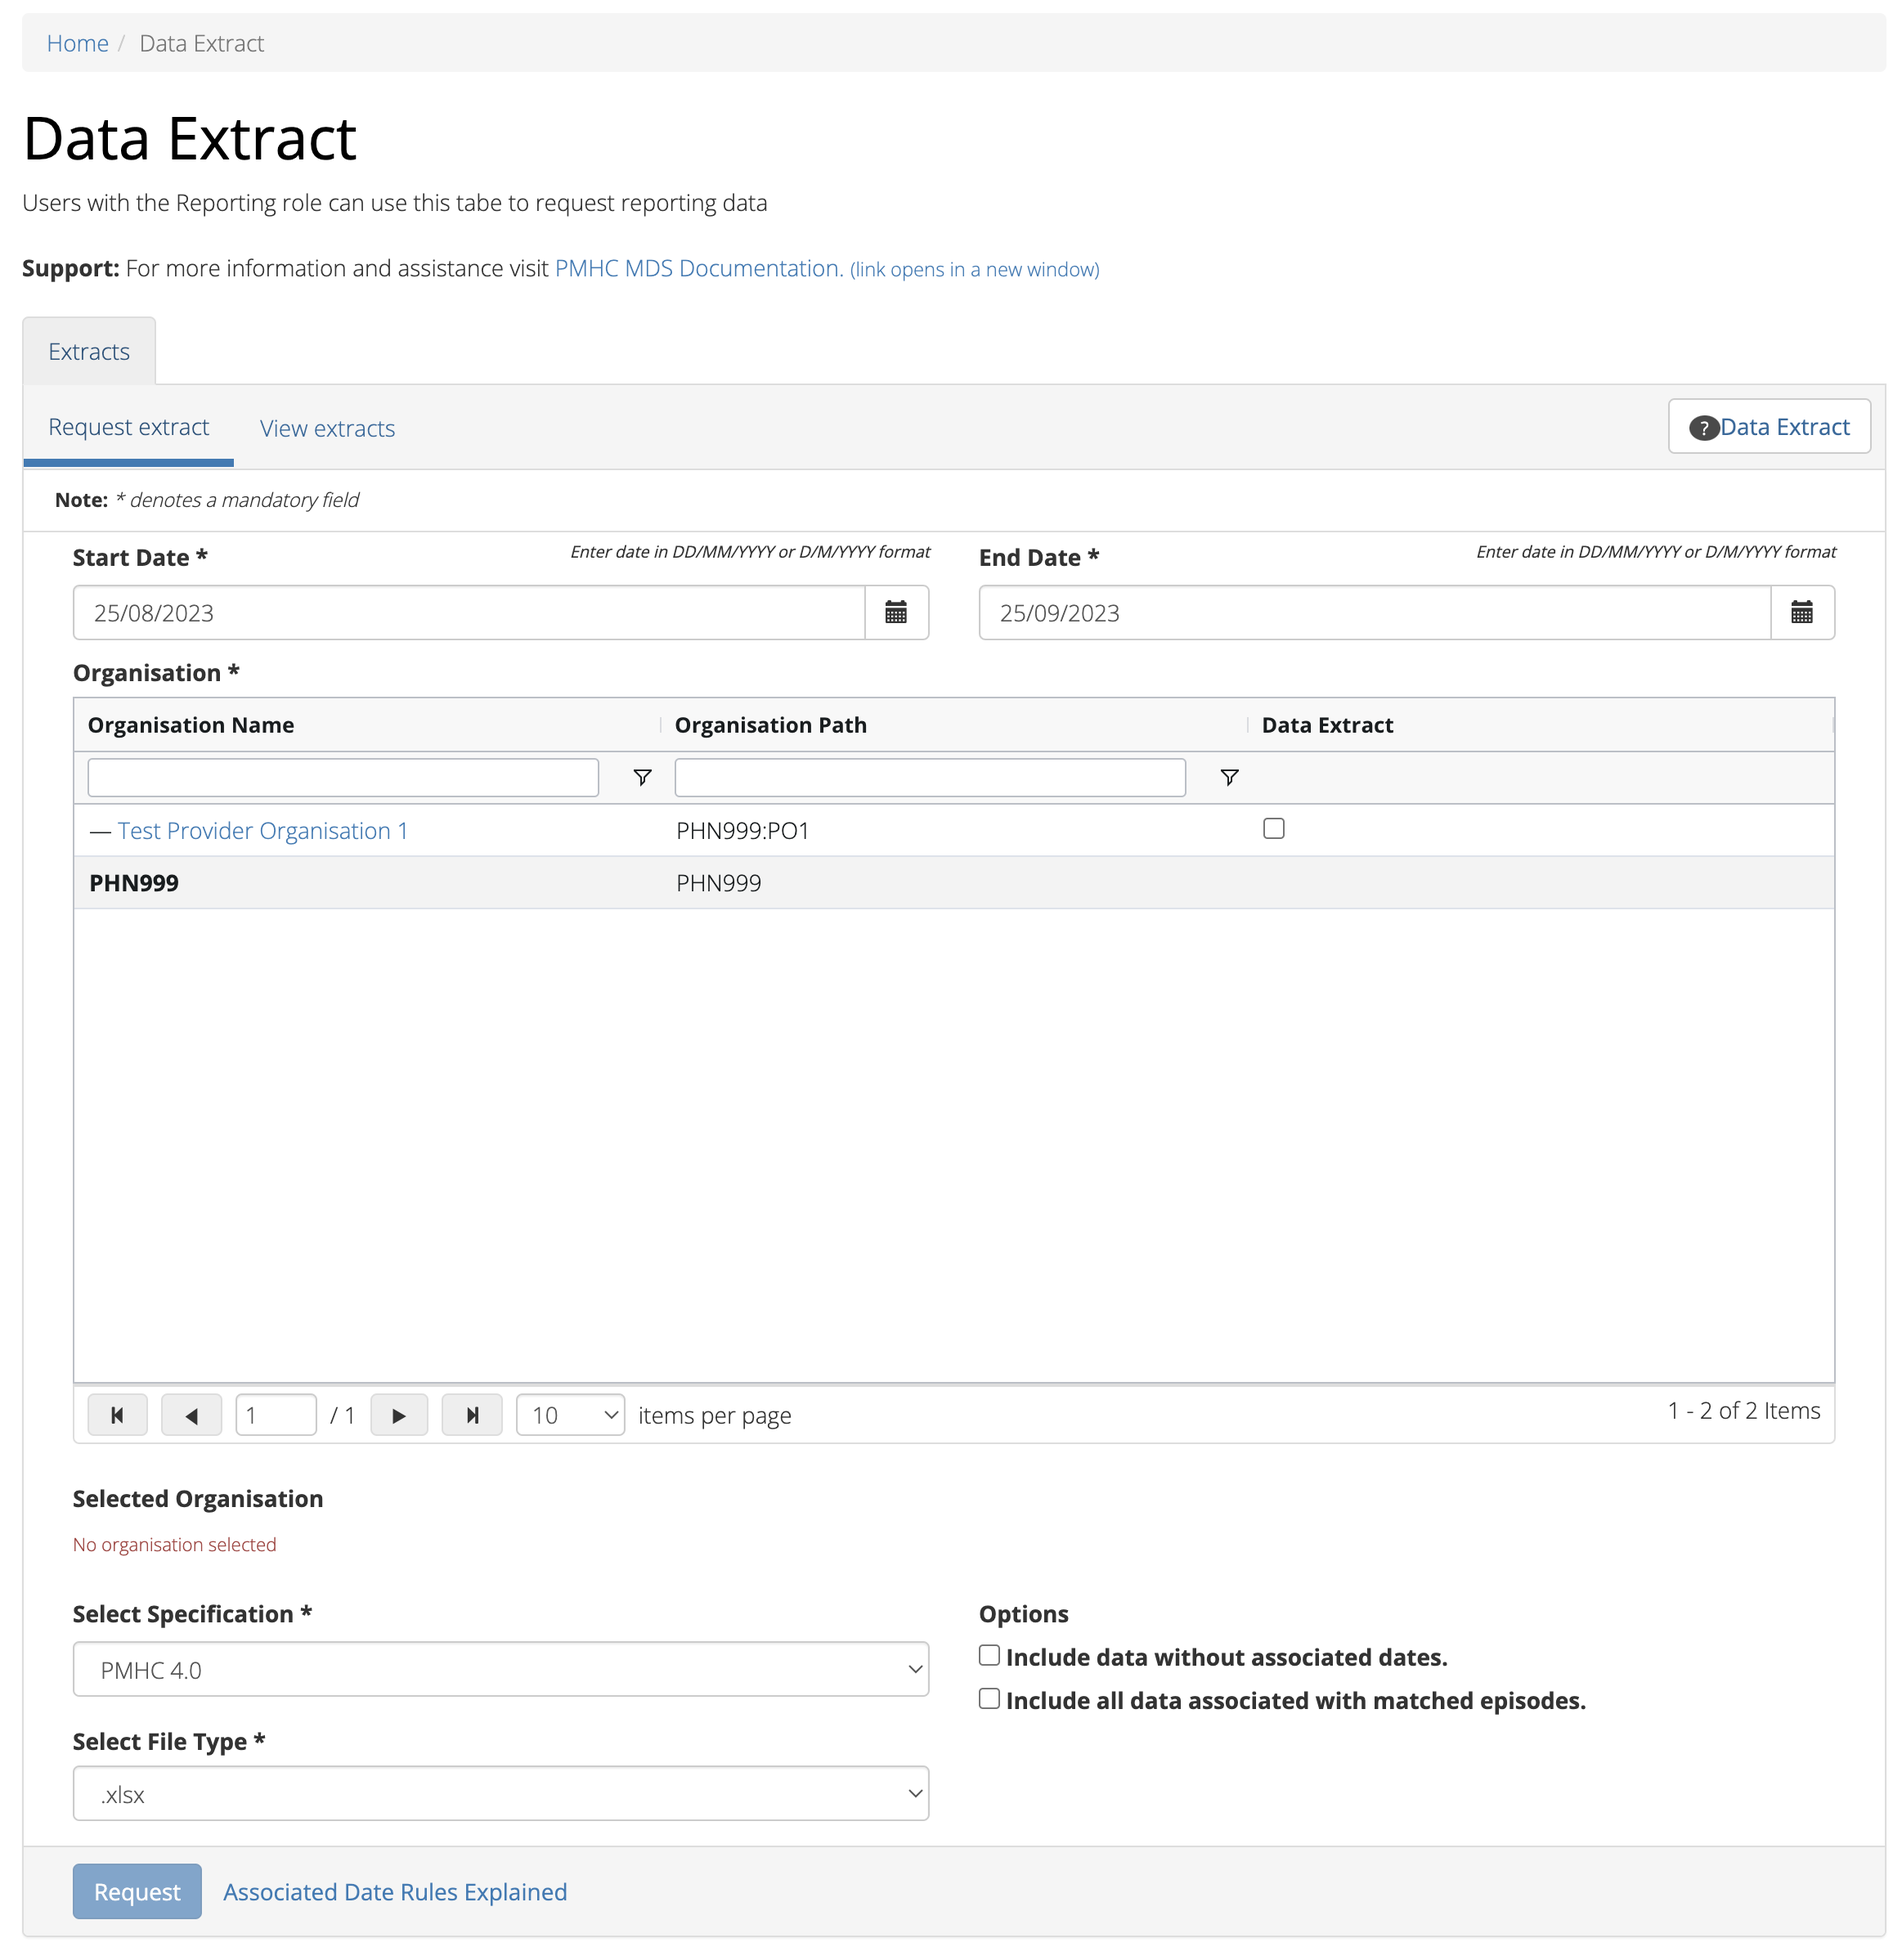
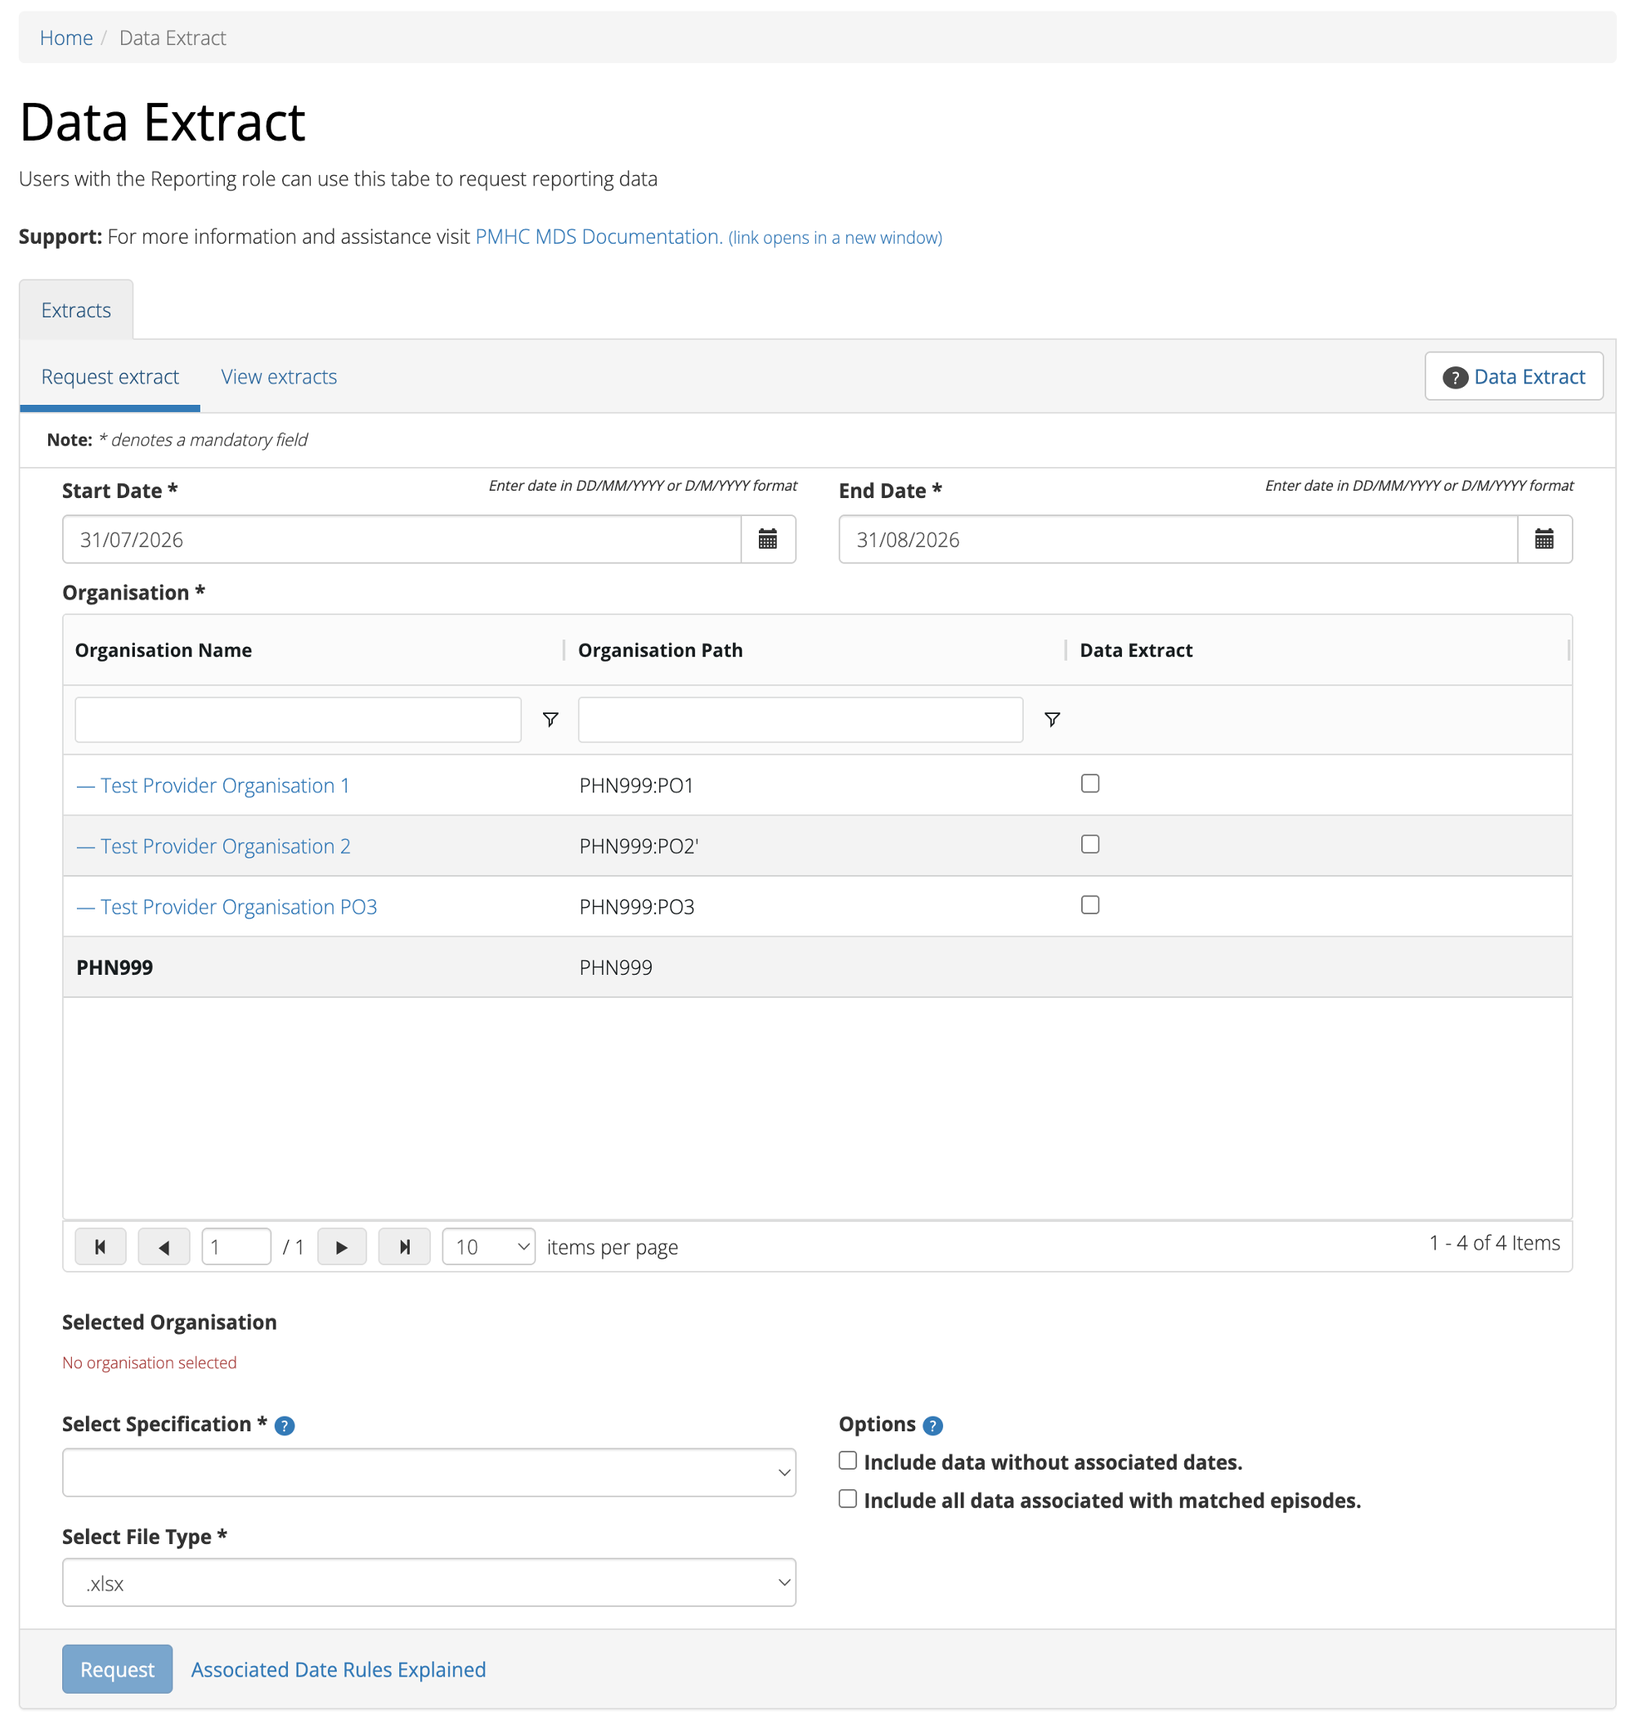
Update Data Extract
Make information current and not version specific
Update screenshots

diff --git a/docs/data-extract.rst b/docs/data-extract.rst
@@ -89,18 +89,26 @@ Requested extracts will be available under the **View Extracts** tab for 7 days.
 Dates explained for Data Extract
 ^^^^^^^^^^^^^^^^^^^^^^^^^^^^^^^^
 
-The Data Extract dates are based on the Client's Service Contact dates for the PMHC MDS.
+The Data Extract dates are based on the dates of the client’s data in the PMHC MDS.
+Dates are included in the Service Contact, Collection Occasion and Intake records.
 
-The default data extract file will include all service contacts that have been recorded
-within the date range of the request, the associated client and episode and measures records.
+The default data extract file will include all service contacts, collection occasions
+and intakes that have been recorded within the date range of the request, and the
+associated client, episode, measure and universal aftercare data records.
 
 It will not include any records that are outside the date range of the request.
+
 
 .. _data-extract-specification:
 
 Data Extract Specification
 ^^^^^^^^^^^^^^^^^^^^^^^^^^
 
+An extract in the core data specification or one of the current extension data
+specifications should meet most needs to review current data or re-upload modified
+data. The ‘Include data from all specifications’ (or META format) option should
+only be used when there is a specific requirement for all specifications, both
+core and extension data (current and historic).
 
 .. contents::
    :local:
@@ -111,41 +119,54 @@ Data Extract Specification
 PMHC (core)
 -----------
 
-If you would like to download a file that includes core data from the
-Primary Mental Health Care Minimum Data Set (PMHC MDS), select the dropdown option
-labelled **PMHC** in the current version specification.
+To download the core PMHC MDS data, select the "PMHC" option from the dropdown
+menu in the current version specification. This downloads a file in the current
+core PMHC MDS data specification. Information about the current core PMHC MDS
+data specification can be found at `PMHC-MDS Data Specification <https://docs.pmhc-mds.com/projects/data-specification/en/latest/index.html#>`_.
 
-This downloads a file that is the core PMHC MDS data, which includes transitioned data from past extensions like `Wayback`
-(See `PMHC-MDS Data Specification <https://docs.pmhc-mds.com/projects/data-specification/en/latest/index.html#>`_).
+This file will include all data added into the PMHC MDS under any previous core
+specification or extension specification, except for headspace.
 
-The resulting file can be uploaded.
+Where the data was transitioned from an extension to the core (e.g. Wayback and HeadtoHelp),
+the core and extension records will be contained in the file.
+
+Where the data was added using any other extension (e.g. National Suicide Prevention Trial)
+the core records will be contained in the file, but not the extension records.
+
+**The resulting file can be uploaded by either PHNs or Provider Organisations.**
 
 .. _data-extract-specification-headspace:
 
 headspace (PMHC extension)
 --------------------------
 
-If you would like to download a file that includes data from headspace extension,
-select the dropdown option labelled **headspace**in the current version specification.
-This downloads a file that is the data that has been updated from headspace
-headoffice hAPI system.
+To download only headspace data, select the "**headspace**" option from the
+dropdown menu in the current version specification. This downloads a file that
+contains only the data that has been uploaded from headspace’s hAPI system.
 (See `headspace Specification <https://docs.pmhc-mds.com/projects/data-specification-headspace/en/latest/index.html>`_).
 
-The resulting file cannot be uploaded. This is a download only format.
+**The resulting file can be uploaded by headspace Head Office.**
+
+**This is a download only format for all PHNs and Provider Organisations.**
+
 
 .. _data-extract-specification-survey:
 
 SURVEY (YES-PHN Results)
 ------------------------
 
-If you would like to download a file that includes data from the YES PHN Survey
-results, select the dropdown option labelled **SURVEY**in the current version specification. This downloads a
-file that is a combination of the YES-PHN data collected via invitations sent
-using the Online Measures Self Service System (OMSSS) and YES-PHN data collected
-outside of OMSSS uploaded using the PMHC MDS Survey Specification.
+To download data from the YES PHN Survey results, select the "SURVEY" option from
+the dropdown menu in the current version specification.  This downloads a file that
+contains a combination of the YES-PHN data collected via invitations sent using the
+Online Measures Self Service System (OMSSS) and YES-PHN data collected outside of
+OMSSS uploaded using the PMHC MDS Survey Specification.
 (See `YES Invitation Data Specification <https://docs.pmhc-mds.com/projects/data-specification-yes-invitation/en/v1/>`_ and `Survey Specification <https://docs.pmhc-mds.com/projects/data-specification-survey/en/v1/>`_).
 
-The data is extracted in the `Survey Specification <https://docs.pmhc-mds.com/projects/data-specification-survey/en/v1/>`_ format and can therefore be reuploaded.
+The data in some fields will be suppressed in this data extract to avoid spilling
+any potentially identifying information. These are outlined in the data specification
+documentation in the relevant definition fields.
+
+**Re-upload of the extracted file is not advised due to the suppressed data.**
 
 .. _data-extract-all-specifications:
 
@@ -159,18 +180,23 @@ This downloads a file that is a combination of all of the extensions listed at h
 The resulting file cannot be uploaded. This is a download only format. It is based
 on the most recent version used by either the core specification or for both current extensions and unsupported past extensions.
 
-Please note: Fields with changes to their specifications between versions will show twice in these META files.
+**Please note:** Where dataset specifications have fields with the same name but
+different definitions, there will be multiple columns for that field in these META files.
 
 These are:
 
-  "**Referral Date**": In versions 2 and 3, Referral date was not required. In version 4 onwards
-  it is required. For episodes where no referral date was supplied,
-  the column corresponding to versions 2 (or 3) will be blank, whereas the column
-  corresponding to version 4 will have the missing date value '09099999'. If you
-  are using the data from a file exported in the META format for re-upload, use the appropriate column for
-  the specification version you are uploading. (See `Referral Date Definition <https://docs.pmhc-mds.com/projects/data-specification/en/latest/data-model-and-specifications.html#referral-date>`_).
+  "**Referral Date**": The Referral Date was made mandatory in the Version 4 core
+  PMHC specification. In earlier versions it was not required. For episodes where
+  no referral date was supplied, the column corresponding to versions prior to 4
+  will be blank, whereas the column corresponding to version 4 onwards will have
+  the missing date value ‘09099999’.
 
-  "**Funding Source**":
+  "**Funding Source**": The Service Contact Funding Source field was introduced
+  into the core PMHC specification in version 4. There were two earlier extension
+  datasets ('headspace 2.0', 'WAYBACK 3.0') that had this field with different
+  values; these will show in a separate column to any values from versions and
+  extensions from version 4 onwards.
+
 
 
 .. _data-extract-options:
@@ -186,16 +212,17 @@ Include data without associated dates
 As the query is date based, the following data will by default, not be included
 in the extract:
 
-   * The start date of an episode is derived from the date of the first service contact.
-     Therefore, if an episode doesn't have any associated service contacts, there will be
-     no start date for the episode and they will not be included in the data extract
-   * Clients that don't have any associated episodes, or who are associated
-     with an episode with no service contacts also will not be included in the data extract
-   * Practitioners who are not associated with a service contact will not be included
-     in the data extract
+   * **Inactive Episodes**: An episode's start date is determined by its first
+     recorded service contact. Consequently, any episode without associated
+     service contacts has no start date and will be excluded from the extract.
+   * **Inactive Clients**: Clients who have no episodes or intakes, or whose
+     episodes do not contain any service contacts or collection occasions, will
+     not be included in the data extract.
+   * **Inactive practitioners**: Practitioners who are not linked to any service
+     contact will be left out of the data extract.
 
-If you would like to include these inactive episodes, inactive clients and
-inactive practitioners check the checkbox labelled **Include data without associated dates**.
+If you would like to include these inactive episodes, inactive clients, and
+inactive practitioners, check the checkbox labelled **Include data without associated dates**.
 
 .. _data-extract-all-epsiode-data:
 
@@ -204,6 +231,6 @@ Include all data associated with matched episodes
 
 If you would like to include all the associated data for active episodes
 within the data extract date range, check the checkbox labelled
-**Include all data associated with matched episodes**. The data extract will
-then also include ALL service contacts and ALL measures including those that are
-outside the data extract date range.
+**Include all data associated with matched episodes**. This setting expands the
+data extract for those active episodes to include ALL service contacts and ALL measures,
+including those that are outside the data extract date range.
